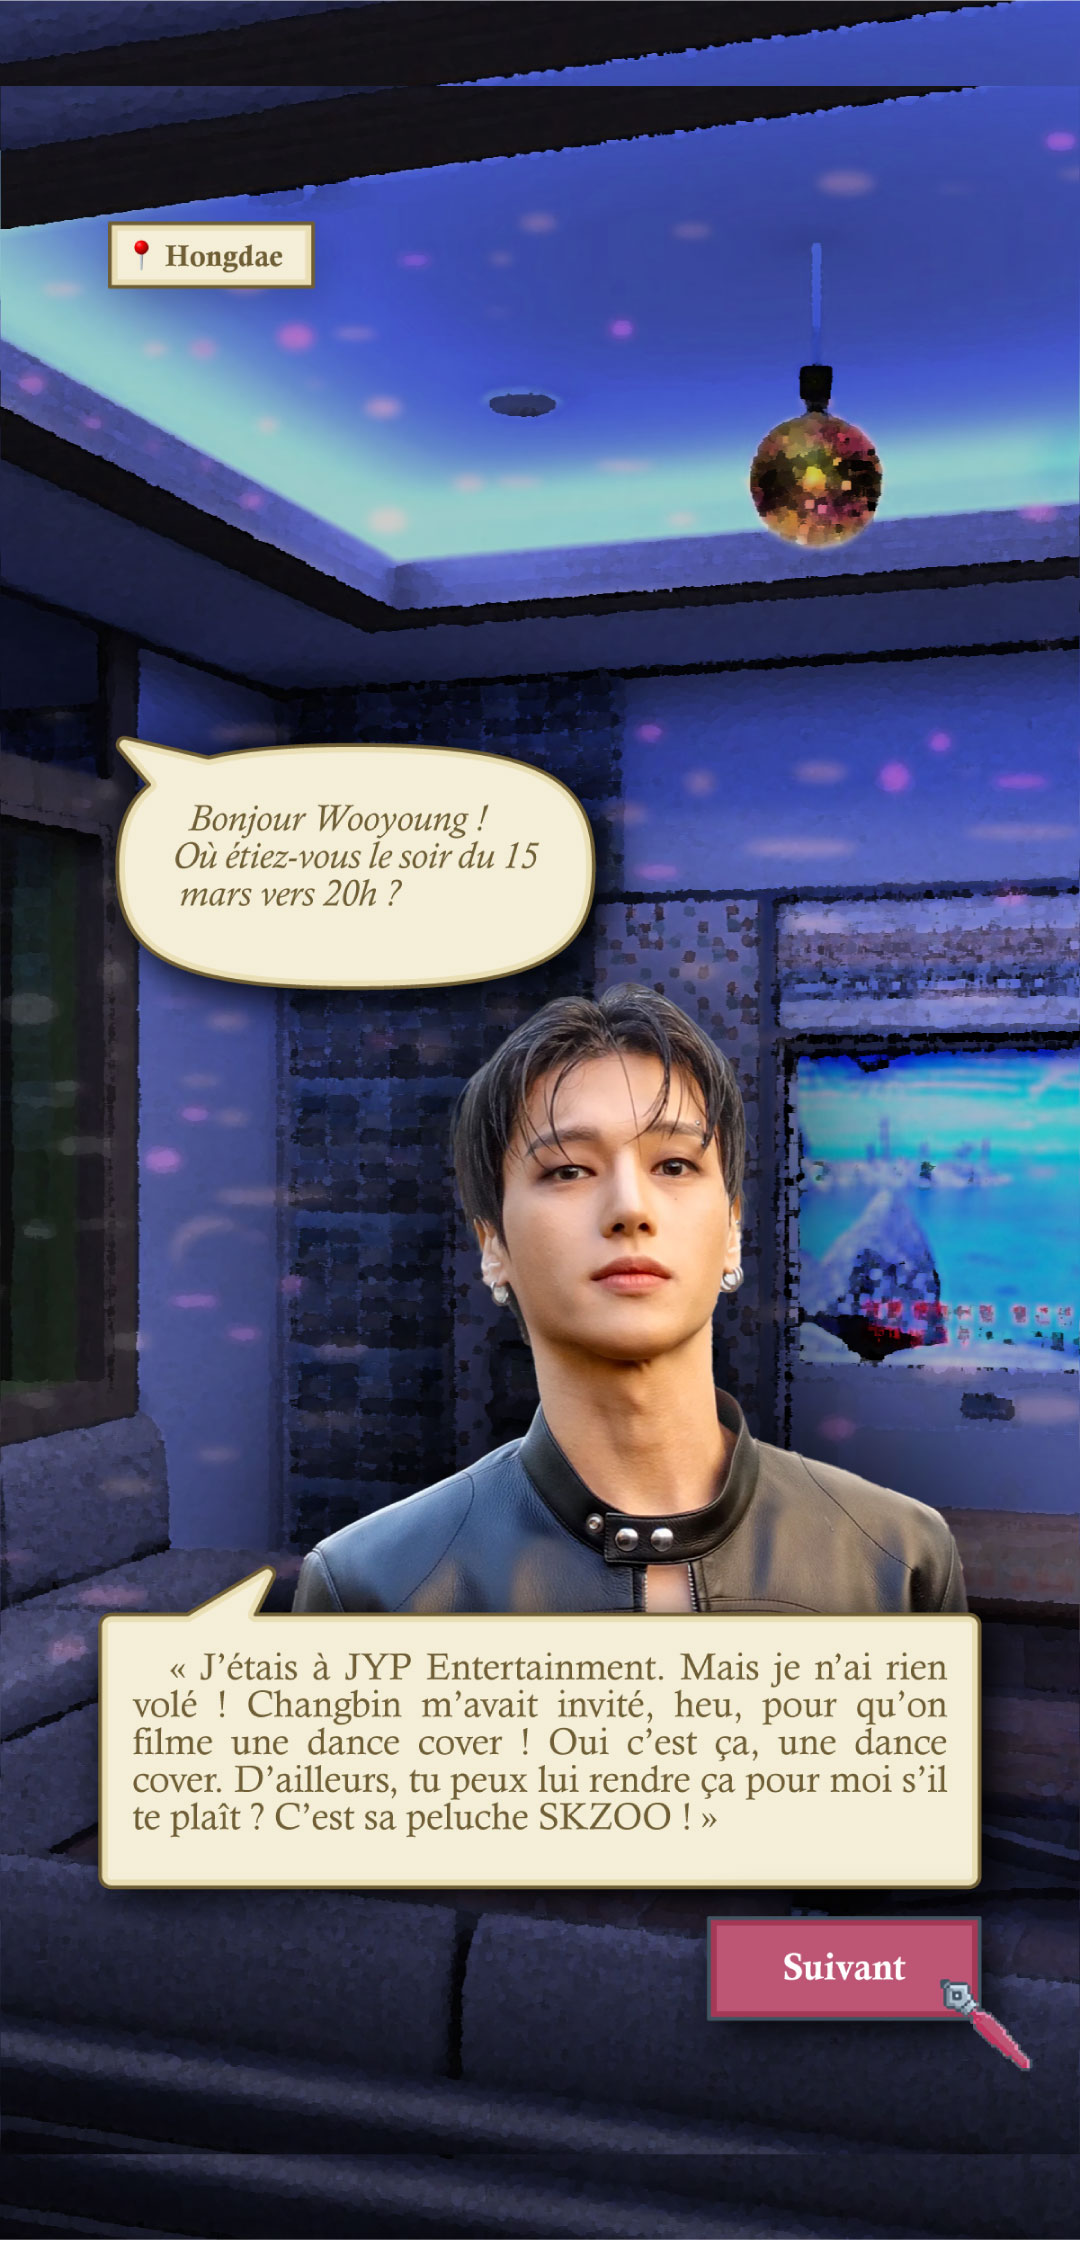
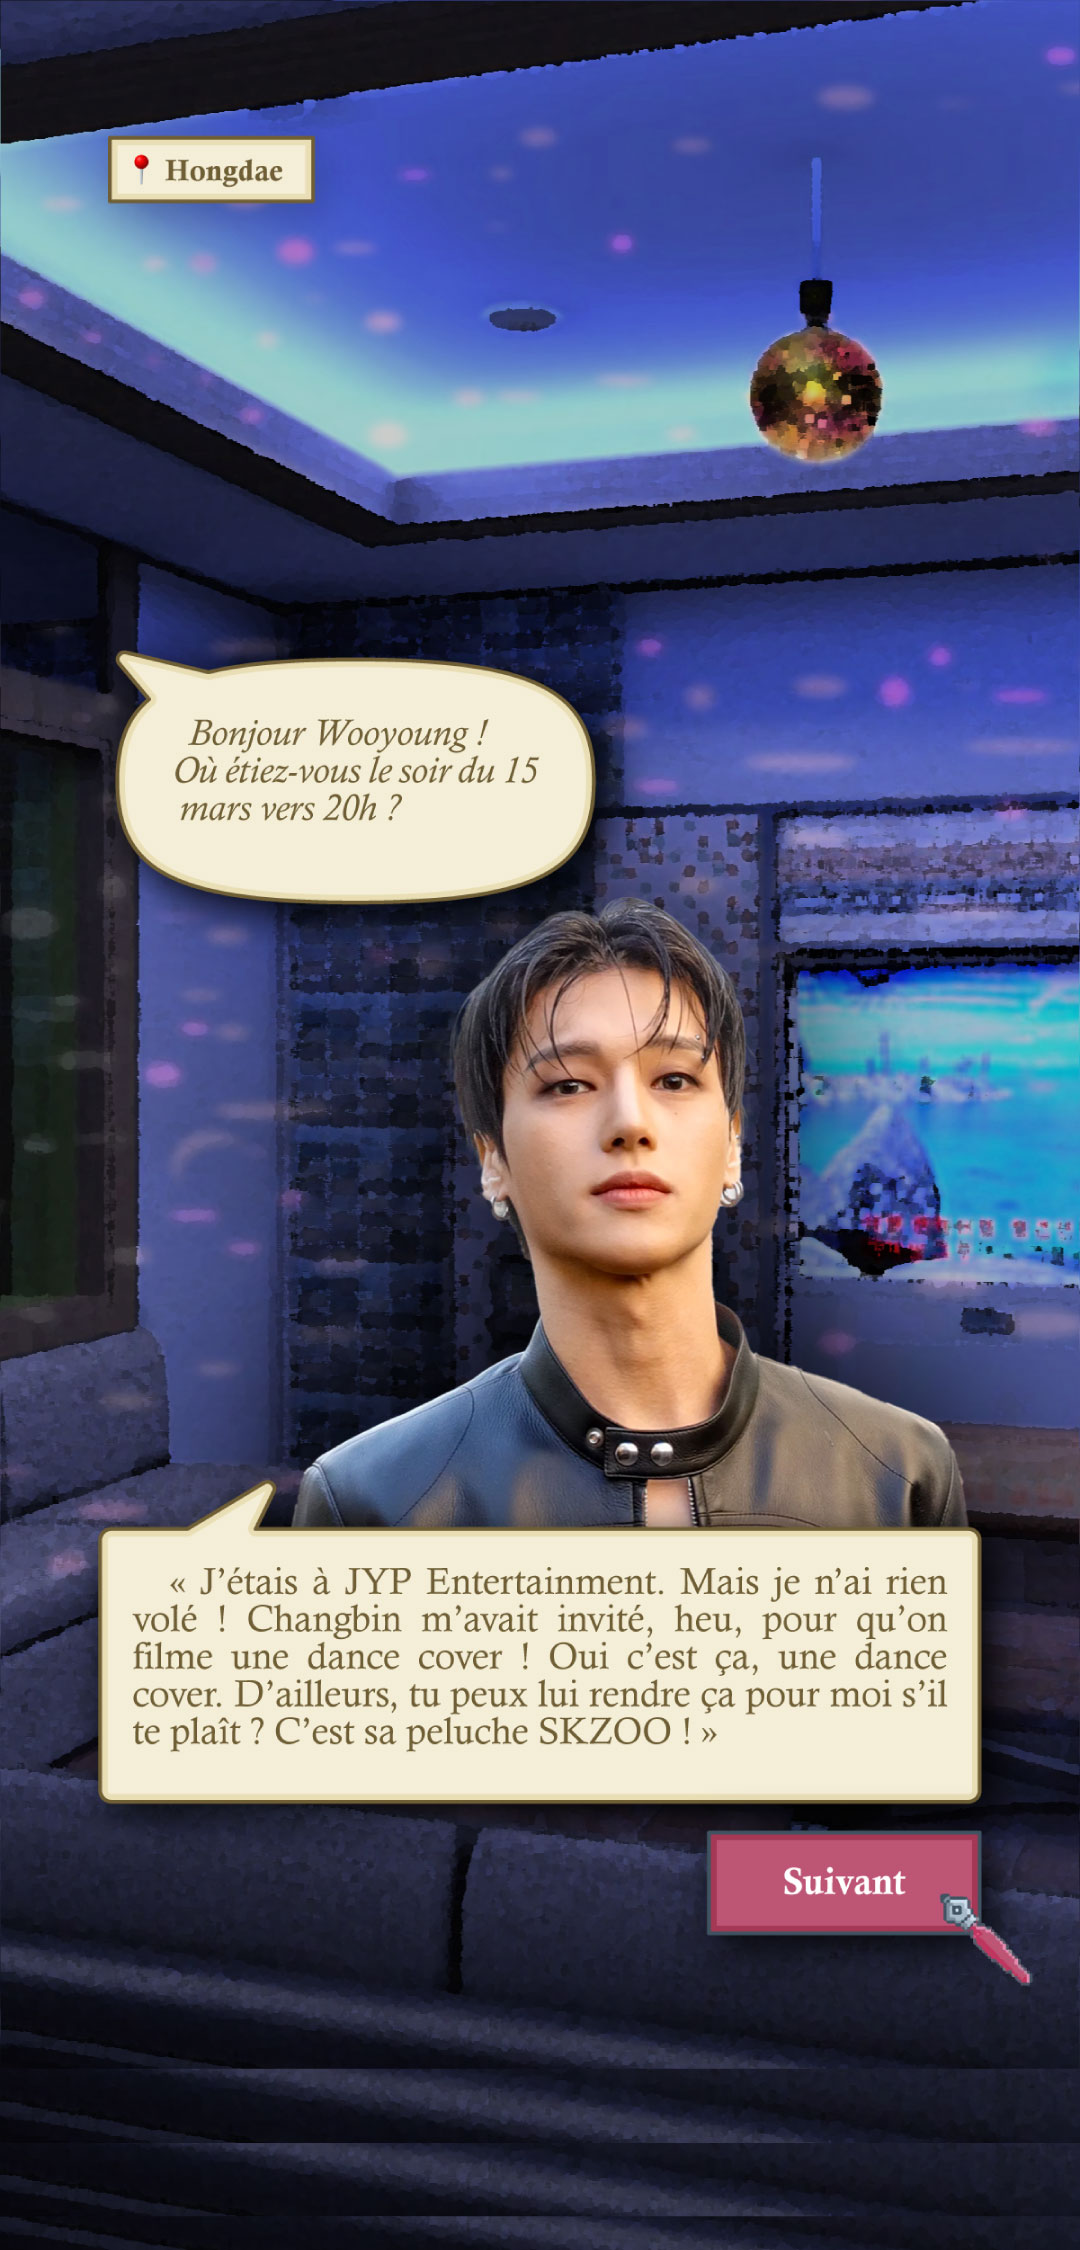
test image wooyoung en dur

diff --git a/hongdae.html b/hongdae.html
@@ -16,10 +16,10 @@
 		border: none !important;
 		font-size:0;
 		position: absolute;
-		right: 80px;
-		bottom: 130px;
-		width: 250px;
-		height: 100px;
+		right: 50px;
+		bottom: 200px;
+		width: 300px;
+		height: 200px;
 		}
 		
 		
